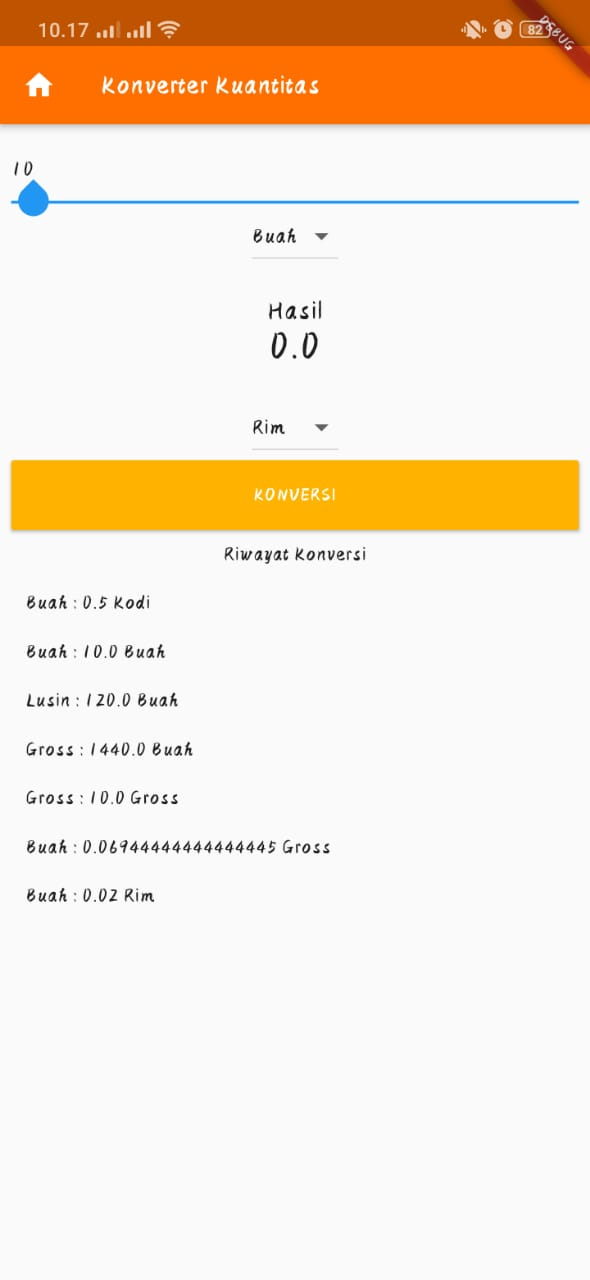
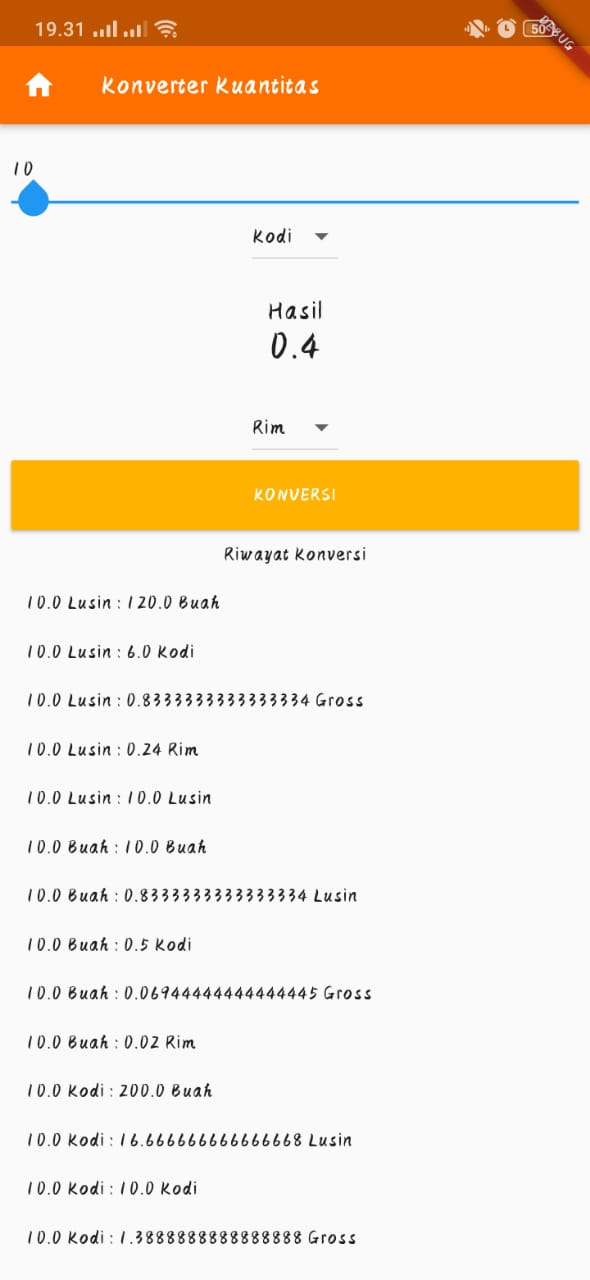
mengubah riwayat, menambah komentar dan mengganti screeshoot aplikasi

diff --git a/lib/main.dart b/lib/main.dart
@@ -29,27 +29,33 @@ class _MyAppState extends State<MyApp> {
   double _result = 0;
 
   final inputController = TextEditingController();
+
+  //membuat list item untuk ditampilkan menjadi pilihan pada dropdown
   var listItem = [
     "Buah",
     "Lusin",
     "Kodi",
     "Gross",
     "Rim"
-  ]; //membuat listitem untuk pilihan pada dropdown
+  ];
 
-  List<String> listViewItem =
-      []; //listViewItem digunakan untuk membuat item dari list riwayat
+  List<String> listViewItem = []; //listViewItem digunakan untuk membuat item dari list riwayat
 
   //membuat value awal yang ditampilkan pada dropdown
   String _newValueInput = "Buah";
   String _newValueResult = "Buah";
 
+/*membuat function dropdown input, tidak memerlukan pemanggilan function perhitungan()
+karena pada opsi dropdown input hanya digunakan untuk memilih saja tidak bisa auto convert*/
   void dropdownOnChangedInput(String changeValue) {
     setState(() {
-      _newValueInput = changeValue;
+      /*mengisi _newValueInput dengan changeValue, changeValue adalah pilihan ketika mengganti dropdown*/
+      _newValueInput = changeValue; 
       });
   }
 
+/*membuat function dropdown result, pada bagian result terdapat pemanggilan function perhitungan()
+karena nantinya akan dapat dilakukan proses konversi ketika memiliki opsi dropdown result*/
   void dropdownOnChangedResult(String changeValue) {
     setState(() {
       _newValueResult = changeValue;
@@ -57,10 +63,13 @@ class _MyAppState extends State<MyApp> {
       });
   }
 
+/*membuat function perhitunga yang berisi kondisi dimana proses perhitungan akan disesuaikan dengan
+pilihan input pada dropdownInput */
   void perhitungan() {
     setState(() {
-      _inputUser = double.parse(etInput.text);
-      if (_newValueInput == "Buah") {
+      //digunakan untuk mengidentifikasi inputan User yang dikonversi dari text ke double
+      _inputUser = double.parse(etInput.text); 
+      if (_newValueInput == "Buah") { //kondisi akan terpenuhi apabila dropdown Input Buah yang dipilih
         if (_newValueResult == "Lusin")
           _result = _inputUser / 12;
         else if (_newValueResult == "Kodi")
@@ -70,8 +79,9 @@ class _MyAppState extends State<MyApp> {
         else if (_newValueResult == "Rim")
           _result = _inputUser / 500;
         else
-          _result = _inputUser;
-      } else if (_newValueInput == "Lusin") {
+          _result = _inputUser; //digunakan apabila pilihan dropdownResult adalah dirinya sendiri
+
+      } else if (_newValueInput == "Lusin") {//kondisi akan terpenuhi apabila dropdown Input Lusin yang dipilih
         if (_newValueResult == "Buah")
           _result = _inputUser * 12;
         else if (_newValueResult == "Kodi")
@@ -82,7 +92,8 @@ class _MyAppState extends State<MyApp> {
           _result = (_inputUser * 12) / 500;
         else
           _result = _inputUser;
-      } else if (_newValueInput == "Kodi") {
+
+      } else if (_newValueInput == "Kodi") { //kondisi akan terpenuhi apabila dropdown Input Kodi yang dipilih
         if (_newValueResult == "Buah")
           _result = _inputUser * 20;
         else if (_newValueResult == "Lusin")
@@ -93,7 +104,8 @@ class _MyAppState extends State<MyApp> {
           _result = (_inputUser * 20) / 500;
         else
           _result = _inputUser;
-      } else if (_newValueInput == "Gross") {
+
+      } else if (_newValueInput == "Gross") { //kondisi akan terpenuhi apabila dropdown Input Gross yang dipilih
         if (_newValueResult == "Buah")
           _result = _inputUser * 144;
         else if (_newValueResult == "Lusin")
@@ -104,6 +116,8 @@ class _MyAppState extends State<MyApp> {
           _result = (_inputUser * 144) / 500;
         else
           _result = _inputUser;
+
+/*kondisi akan terpenuhi apabila dropdown Input yang dipilih adalah sisa dari ListItem pada kondisi ini adalah Rim*/
       } else {
         if (_newValueResult == "Buah")
           _result = _inputUser * 500;
@@ -117,7 +131,7 @@ class _MyAppState extends State<MyApp> {
           _result = _inputUser;
       }
       //menampilkan riwayat konversi
-      listViewItem.add("$_newValueInput : $_result $_newValueResult");
+      listViewItem.add("$_inputUser $_newValueInput : $_result $_newValueResult");
     });
   }
 
@@ -153,15 +167,16 @@ class _MyAppState extends State<MyApp> {
                   //menambahkan result.dart
                   Result(result: _result),
 
-                  /*menambah resultdrop.dart di bawah result.dart
-                  */
+                  //menambah resultdrop.dart di bawah result.dart
                   DropdownResult(
                     listItem: listItem, 
                     newValue: _newValueResult, 
                     dropdownOnChangedResult : dropdownOnChangedResult),
 
+                  //memanggil convert.dart
                   Convert(konvertHandler: perhitungan),
                   
+                  //membuat tempat untuk menampilkan riwayat konversi
                   Container(
                     margin: EdgeInsets.only(top: 10.0, bottom: 10.0),
                     child: Text(
@@ -170,6 +185,7 @@ class _MyAppState extends State<MyApp> {
                   ),
                   ),
 
+                  //memanggil riwayat.dart untuk menampilkan riwayat konversi
                   Expanded(
                     child: Riwayat(listViewItem: listViewItem)
                   ),

diff --git a/lib/resultdrop.dart b/lib/resultdrop.dart
@@ -7,7 +7,8 @@ class DropdownResult extends StatelessWidget {
     @required this.listItem,
     @required String newValue,
     @required this.dropdownOnChangedResult,
-  }) : _newValueResult = newValue, super(key: key);
+  })  : _newValueResult = newValue,
+        super(key: key);
 
   final List<String> listItem;
   final String _newValueResult;
@@ -16,15 +17,15 @@ class DropdownResult extends StatelessWidget {
   @override
   Widget build(BuildContext context) {
     return DropdownButton(
-                  items: listItem.map((String value) {
-                    return DropdownMenuItem<String>(
-                      value: value,
-                      child: Text(value),
-                    );
-                  }).toList(),
-                  value: _newValueResult,
-                  onChanged: dropdownOnChangedResult,//untuk auto konvert ketika mengganti value dropdown
-                  );
+      items: listItem.map((String value) {
+        return DropdownMenuItem<String>(
+          value: value,
+          child: Text(value),
+        );
+      }).toList(),
+      value: _newValueResult,
+      /*mengisi onChanged dengan function dropdownOnChangedResult yg terdapat pada main.dart*/
+      onChanged: dropdownOnChangedResult,
+    );
   }
 }
-

diff --git a/lib/inputdrop.dart b/lib/inputdrop.dart
@@ -7,7 +7,8 @@ class DropdownInput extends StatelessWidget {
     @required this.listItem,
     @required String newValue,
     @required this.dropdownOnChangedInput,
-  }) : _newValueInput = newValue, super(key: key);
+  })  : _newValueInput = newValue,
+        super(key: key);
 
   final List<String> listItem;
   final String _newValueInput;
@@ -16,15 +17,15 @@ class DropdownInput extends StatelessWidget {
   @override
   Widget build(BuildContext context) {
     return DropdownButton(
-                  items: listItem.map((String value) {
-                    return DropdownMenuItem<String>(
-                      value: value,
-                      child: Text(value),
-                    );
-                  }).toList(),
-                  value: _newValueInput,
-                  onChanged: dropdownOnChangedInput,//untuk auto konvert ketika mengganti value dropdown
-                  );
+      items: listItem.map((String value) {
+        return DropdownMenuItem<String>(
+          value: value,
+          child: Text(value),
+        );
+      }).toList(),
+      value: _newValueInput,
+      /*mengisi onChanged dengan function dropdownOnChangedInput yg terdapat pada main.dart*/
+      onChanged: dropdownOnChangedInput,
+    );
   }
 }
-

diff --git a/lib/input.dart b/lib/input.dart
@@ -2,7 +2,7 @@ import 'package:flutter/material.dart';
 import 'package:flutter/services.dart';
 
 class Input extends StatelessWidget {
- const Input({
+  const Input({
     Key key,
     @required this.etInput,
   }) : super(key: key);
@@ -12,15 +12,14 @@ class Input extends StatelessWidget {
   @override
   Widget build(BuildContext context) {
     return TextFormField(
-                  inputFormatters: [FilteringTextInputFormatter.digitsOnly],
-                  controller: etInput,
-                  keyboardType: TextInputType.numberWithOptions(
-                    decimal: true,
-                    signed: false,
-                  ),
-                  decoration: InputDecoration(
-                      hintText: 'Masukkan Jumlah Yang Akan Dikonversi'),
-                );
+      inputFormatters: [FilteringTextInputFormatter.digitsOnly],
+      controller: etInput,
+      keyboardType: TextInputType.numberWithOptions(
+        decimal: true,
+        signed: false,
+      ),
+      decoration:
+          InputDecoration(hintText: 'Masukkan Jumlah Yang Akan Dikonversi'),
+    );
   }
 }
-

diff --git a/lib/convert.dart b/lib/convert.dart
@@ -11,6 +11,7 @@ Convert({Key key, @required this.konvertHandler});
       width: double.infinity,
       height: 50,
       child: RaisedButton(
+  /*menginisiasikan ketika button ditekan akan memanggil function konvertHandler agar perhitungan dieksekusi */
           onPressed: konvertHandler,
           color: Colors.amber[600],
           textColor: Colors.white,
